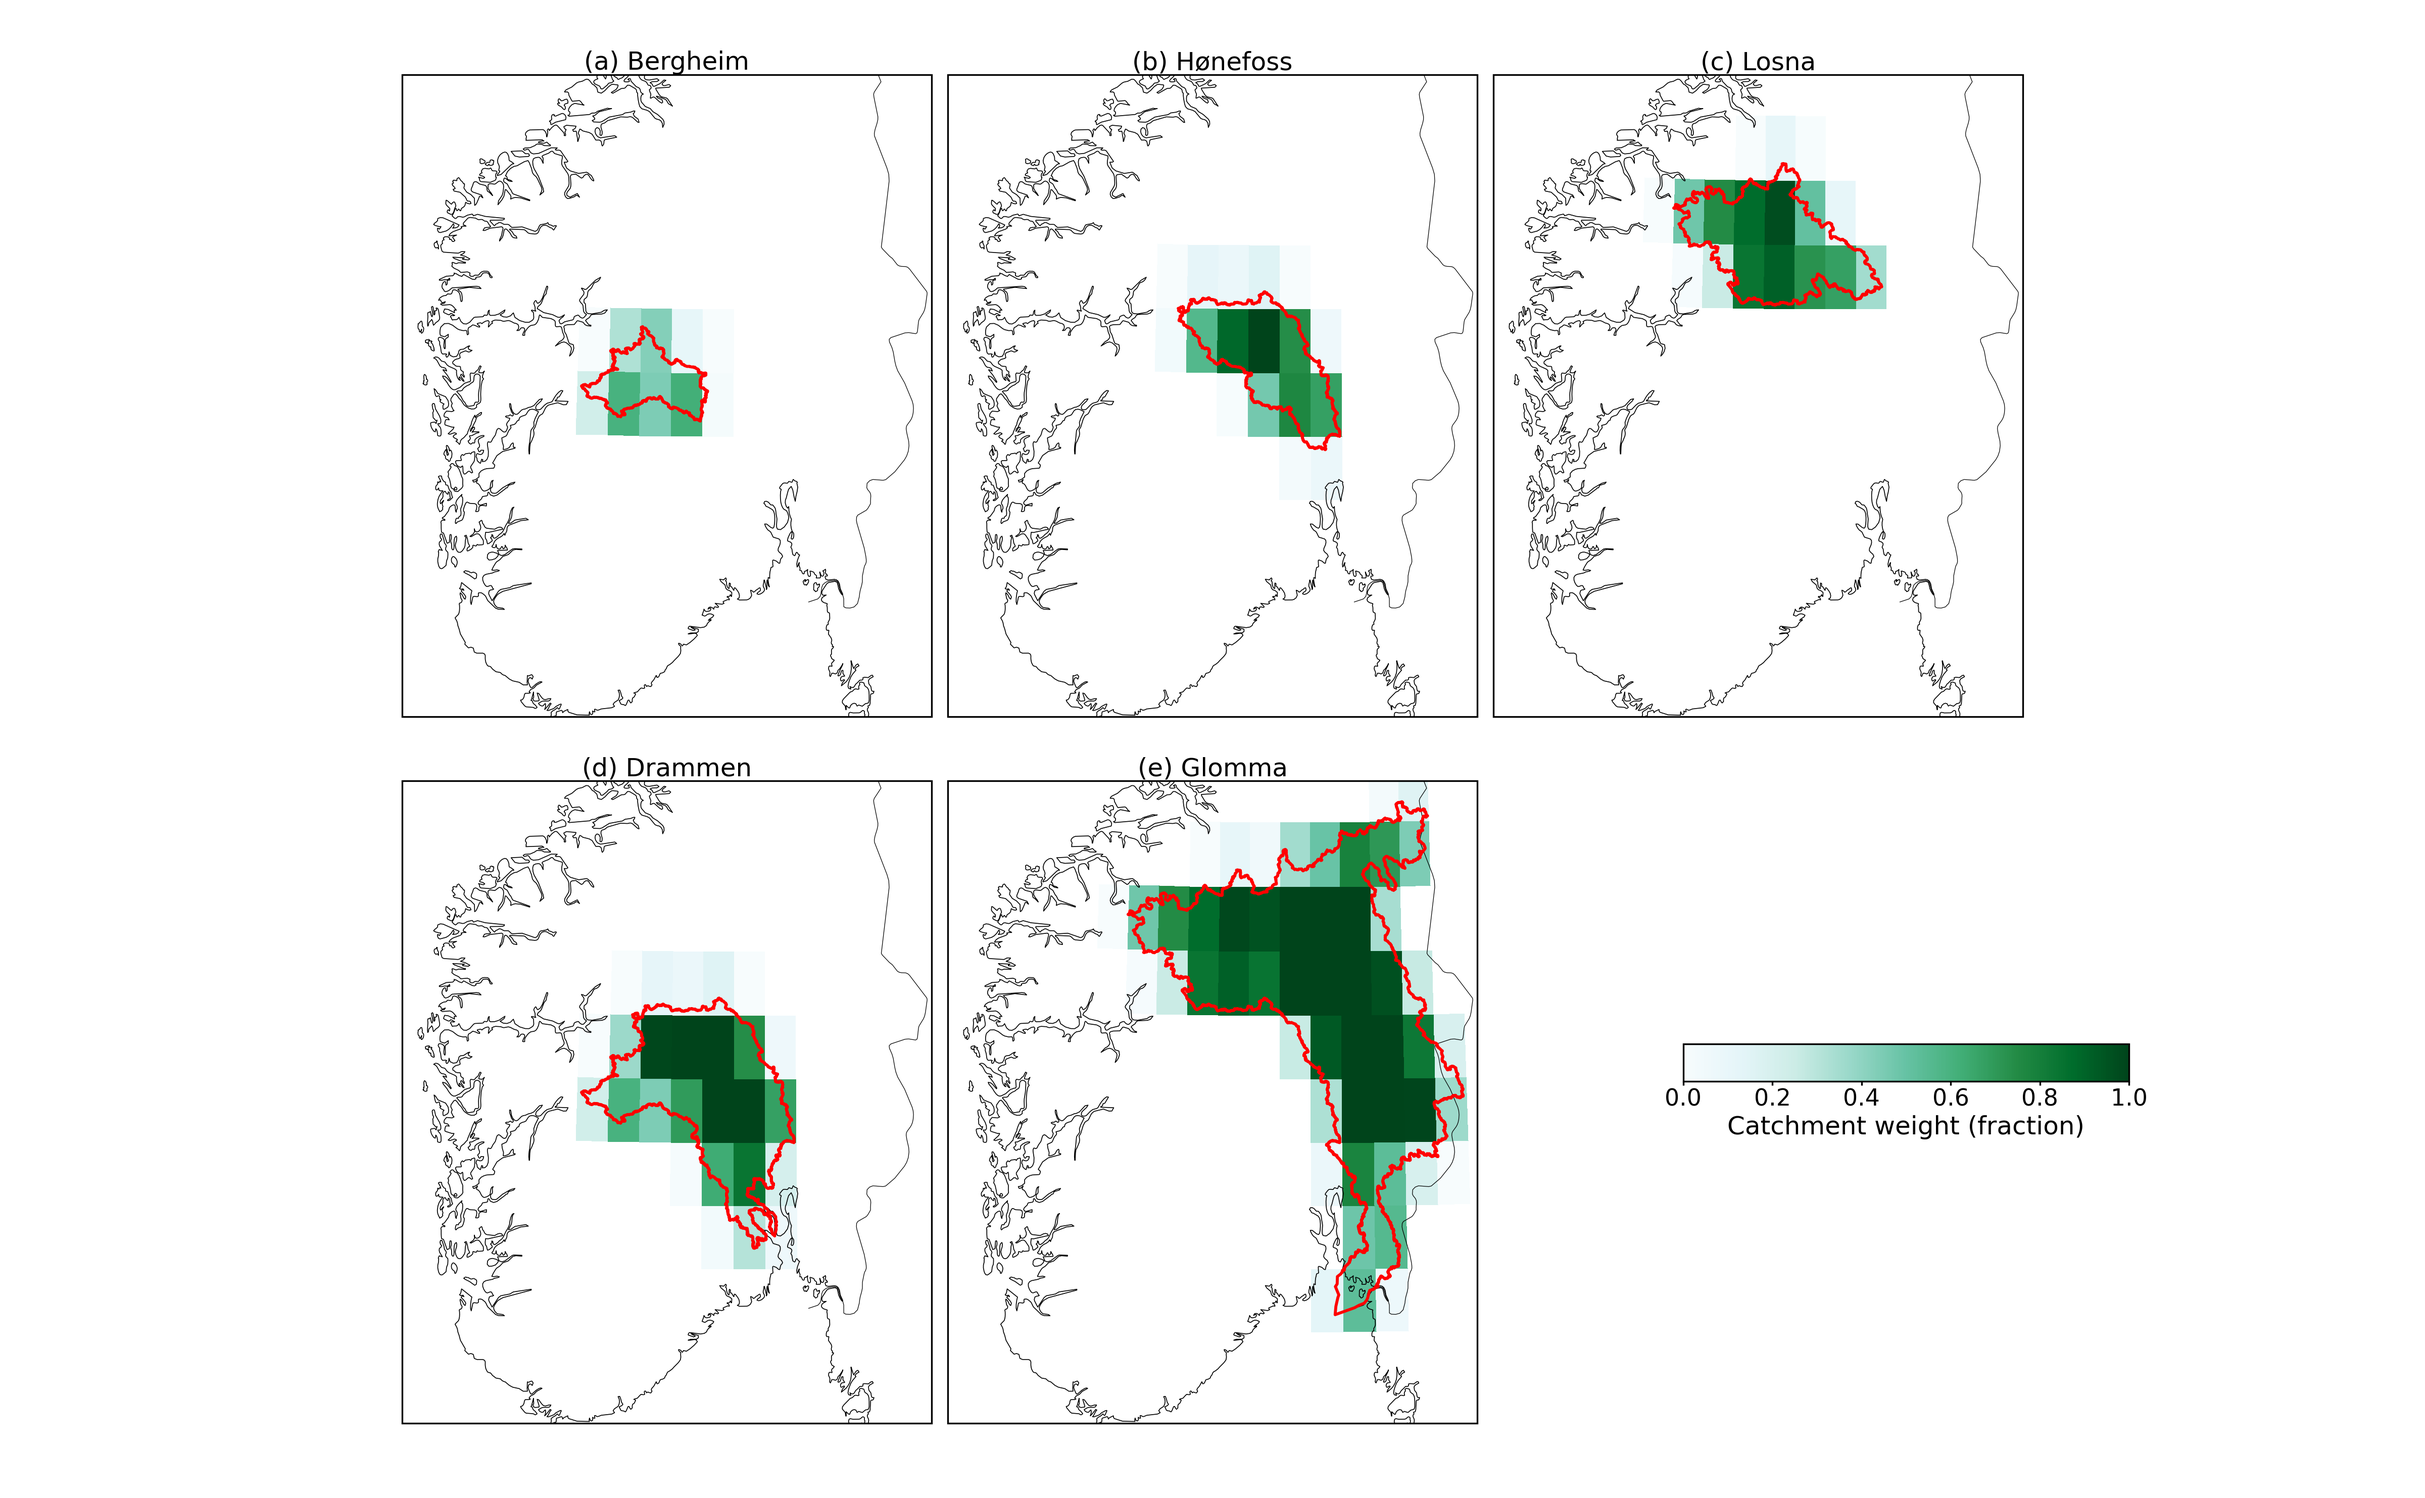
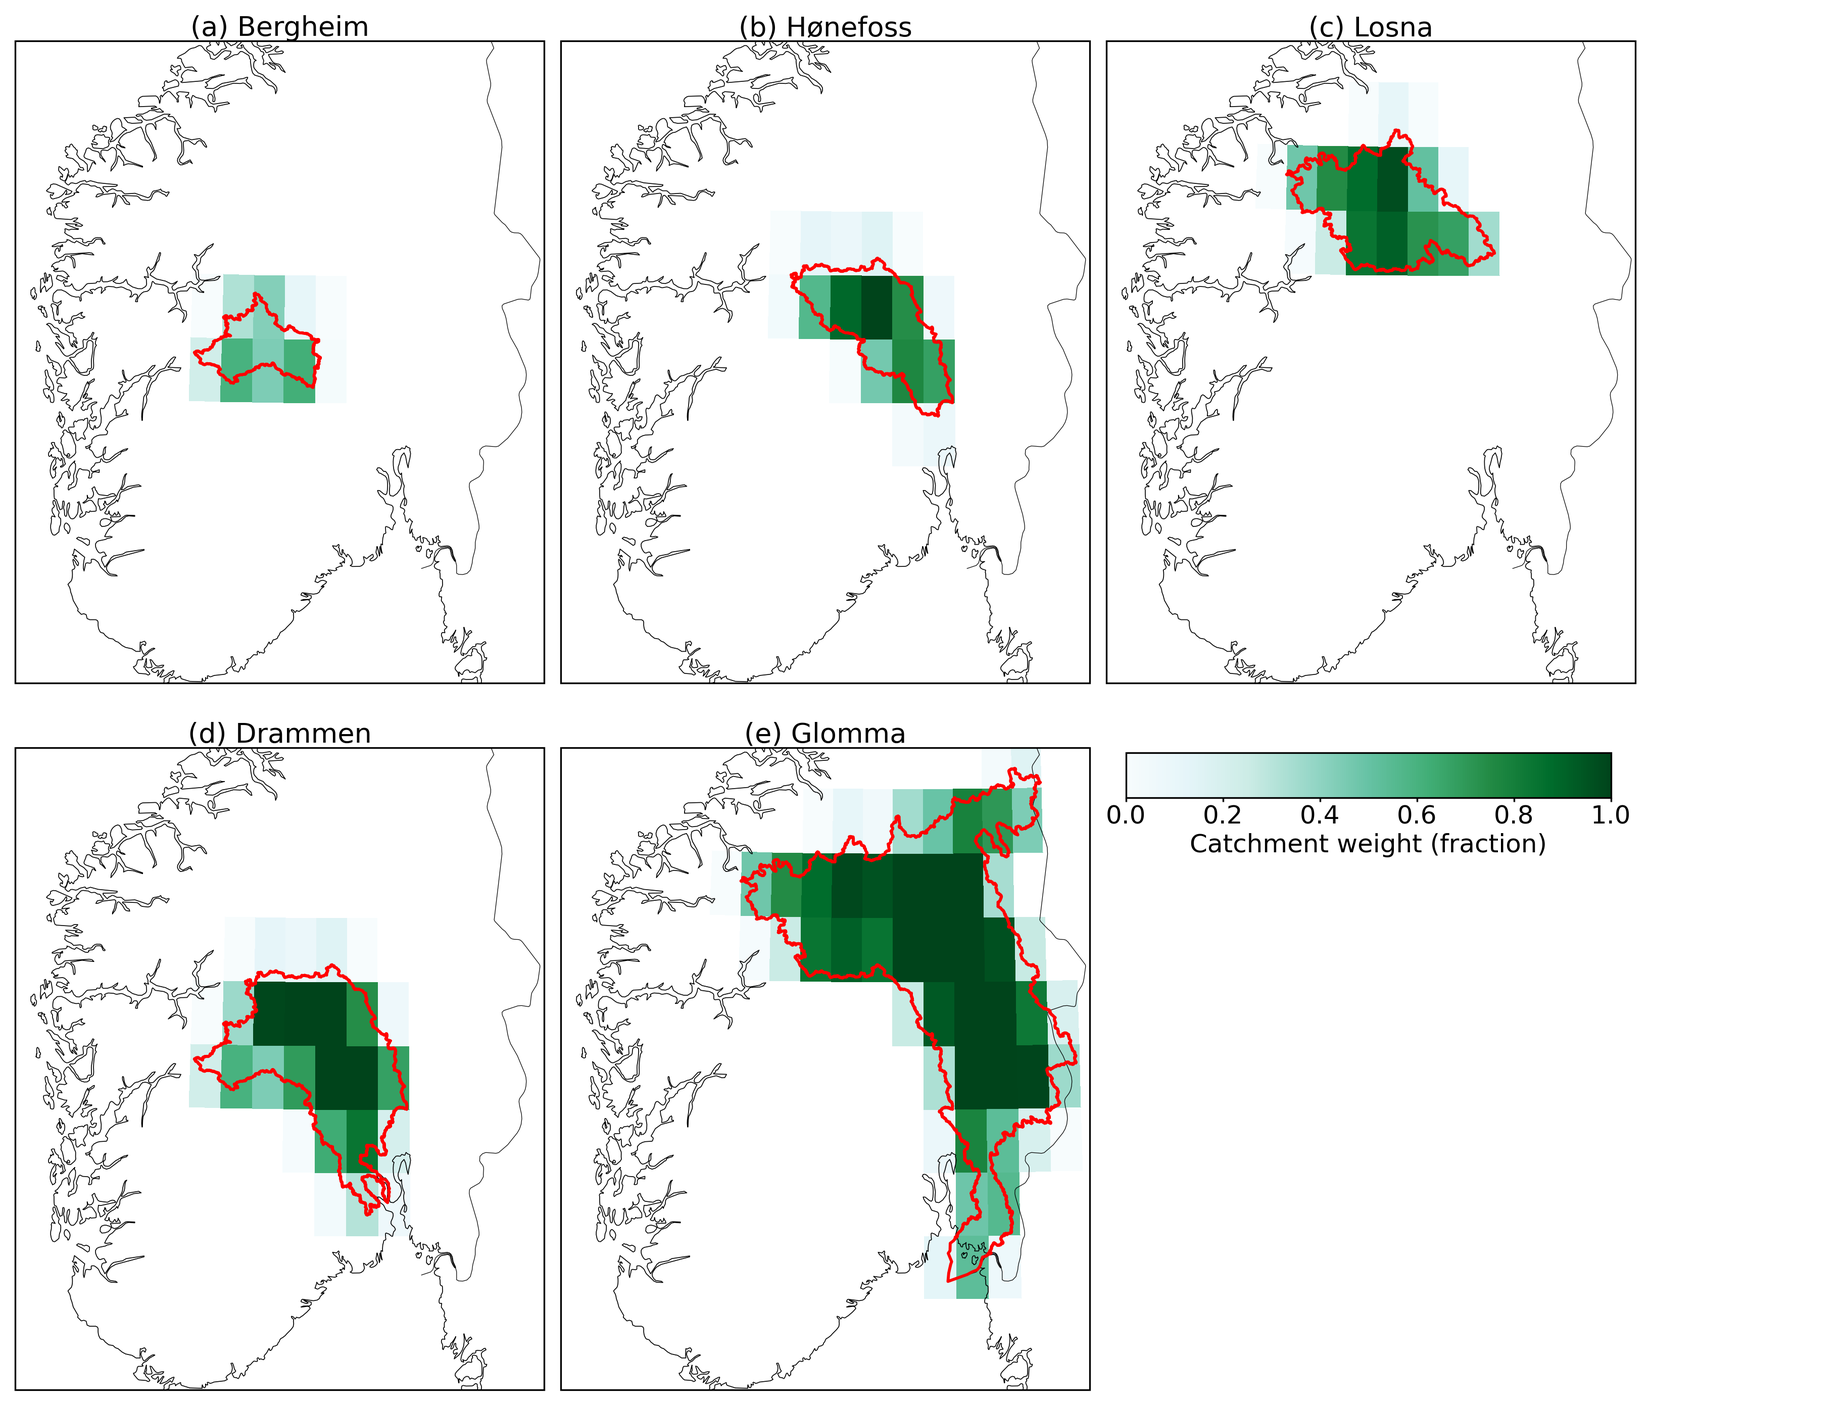
update

diff --git a/code/plot/paper_figs/temp2.py b/code/plot/paper_figs/temp2.py
@@ -43,9 +43,9 @@ MAP_WSPACE = -0.5
 MAP_HSPACE = 0.1
 
 # --- Font sizes
-tick_labelsize = 11
+tick_labelsize = 12
 axis_labelsize = 12
-title_fontsize = 12
+title_fontsize = 13
 station_labelsize = 8
 
 # --- Map projection and extent
@@ -326,20 +326,8 @@ def finalize_figure(fig, axes, mesh, savepath=None, write2file=False):
             pad=2,
         )
 
-    # Use lower-right panel as the colorbar container
-    cax_container = axes[1, 2]
-    cax_container.set_axis_off()
-
-    # Place colorbar inside the empty sixth grid cell
-    bbox = cax_container.get_position()
-
-    cbar_height = 0.025
-    cbar_width = bbox.width * 0.85
-    cbar_x = bbox.x0 + 0.5 * (bbox.width - cbar_width)
-    cbar_y = bbox.y0 + 0.48 * bbox.height
-
-    cax = fig.add_axes([cbar_x, cbar_y, cbar_width, cbar_height])
-
+    cax = fig.add_axes([0.624, 0.445, 0.20, 0.03])
+    
     cbar = fig.colorbar(
         mesh,
         cax=cax,
@@ -362,7 +350,7 @@ def finalize_figure(fig, axes, mesh, savepath=None, write2file=False):
     )
 
     if write2file:
-        fig.savefig(savepath, dpi=300)
+        fig.savefig(savepath, dpi=300, bbox_inches="tight")
 
     plt.show()
 
